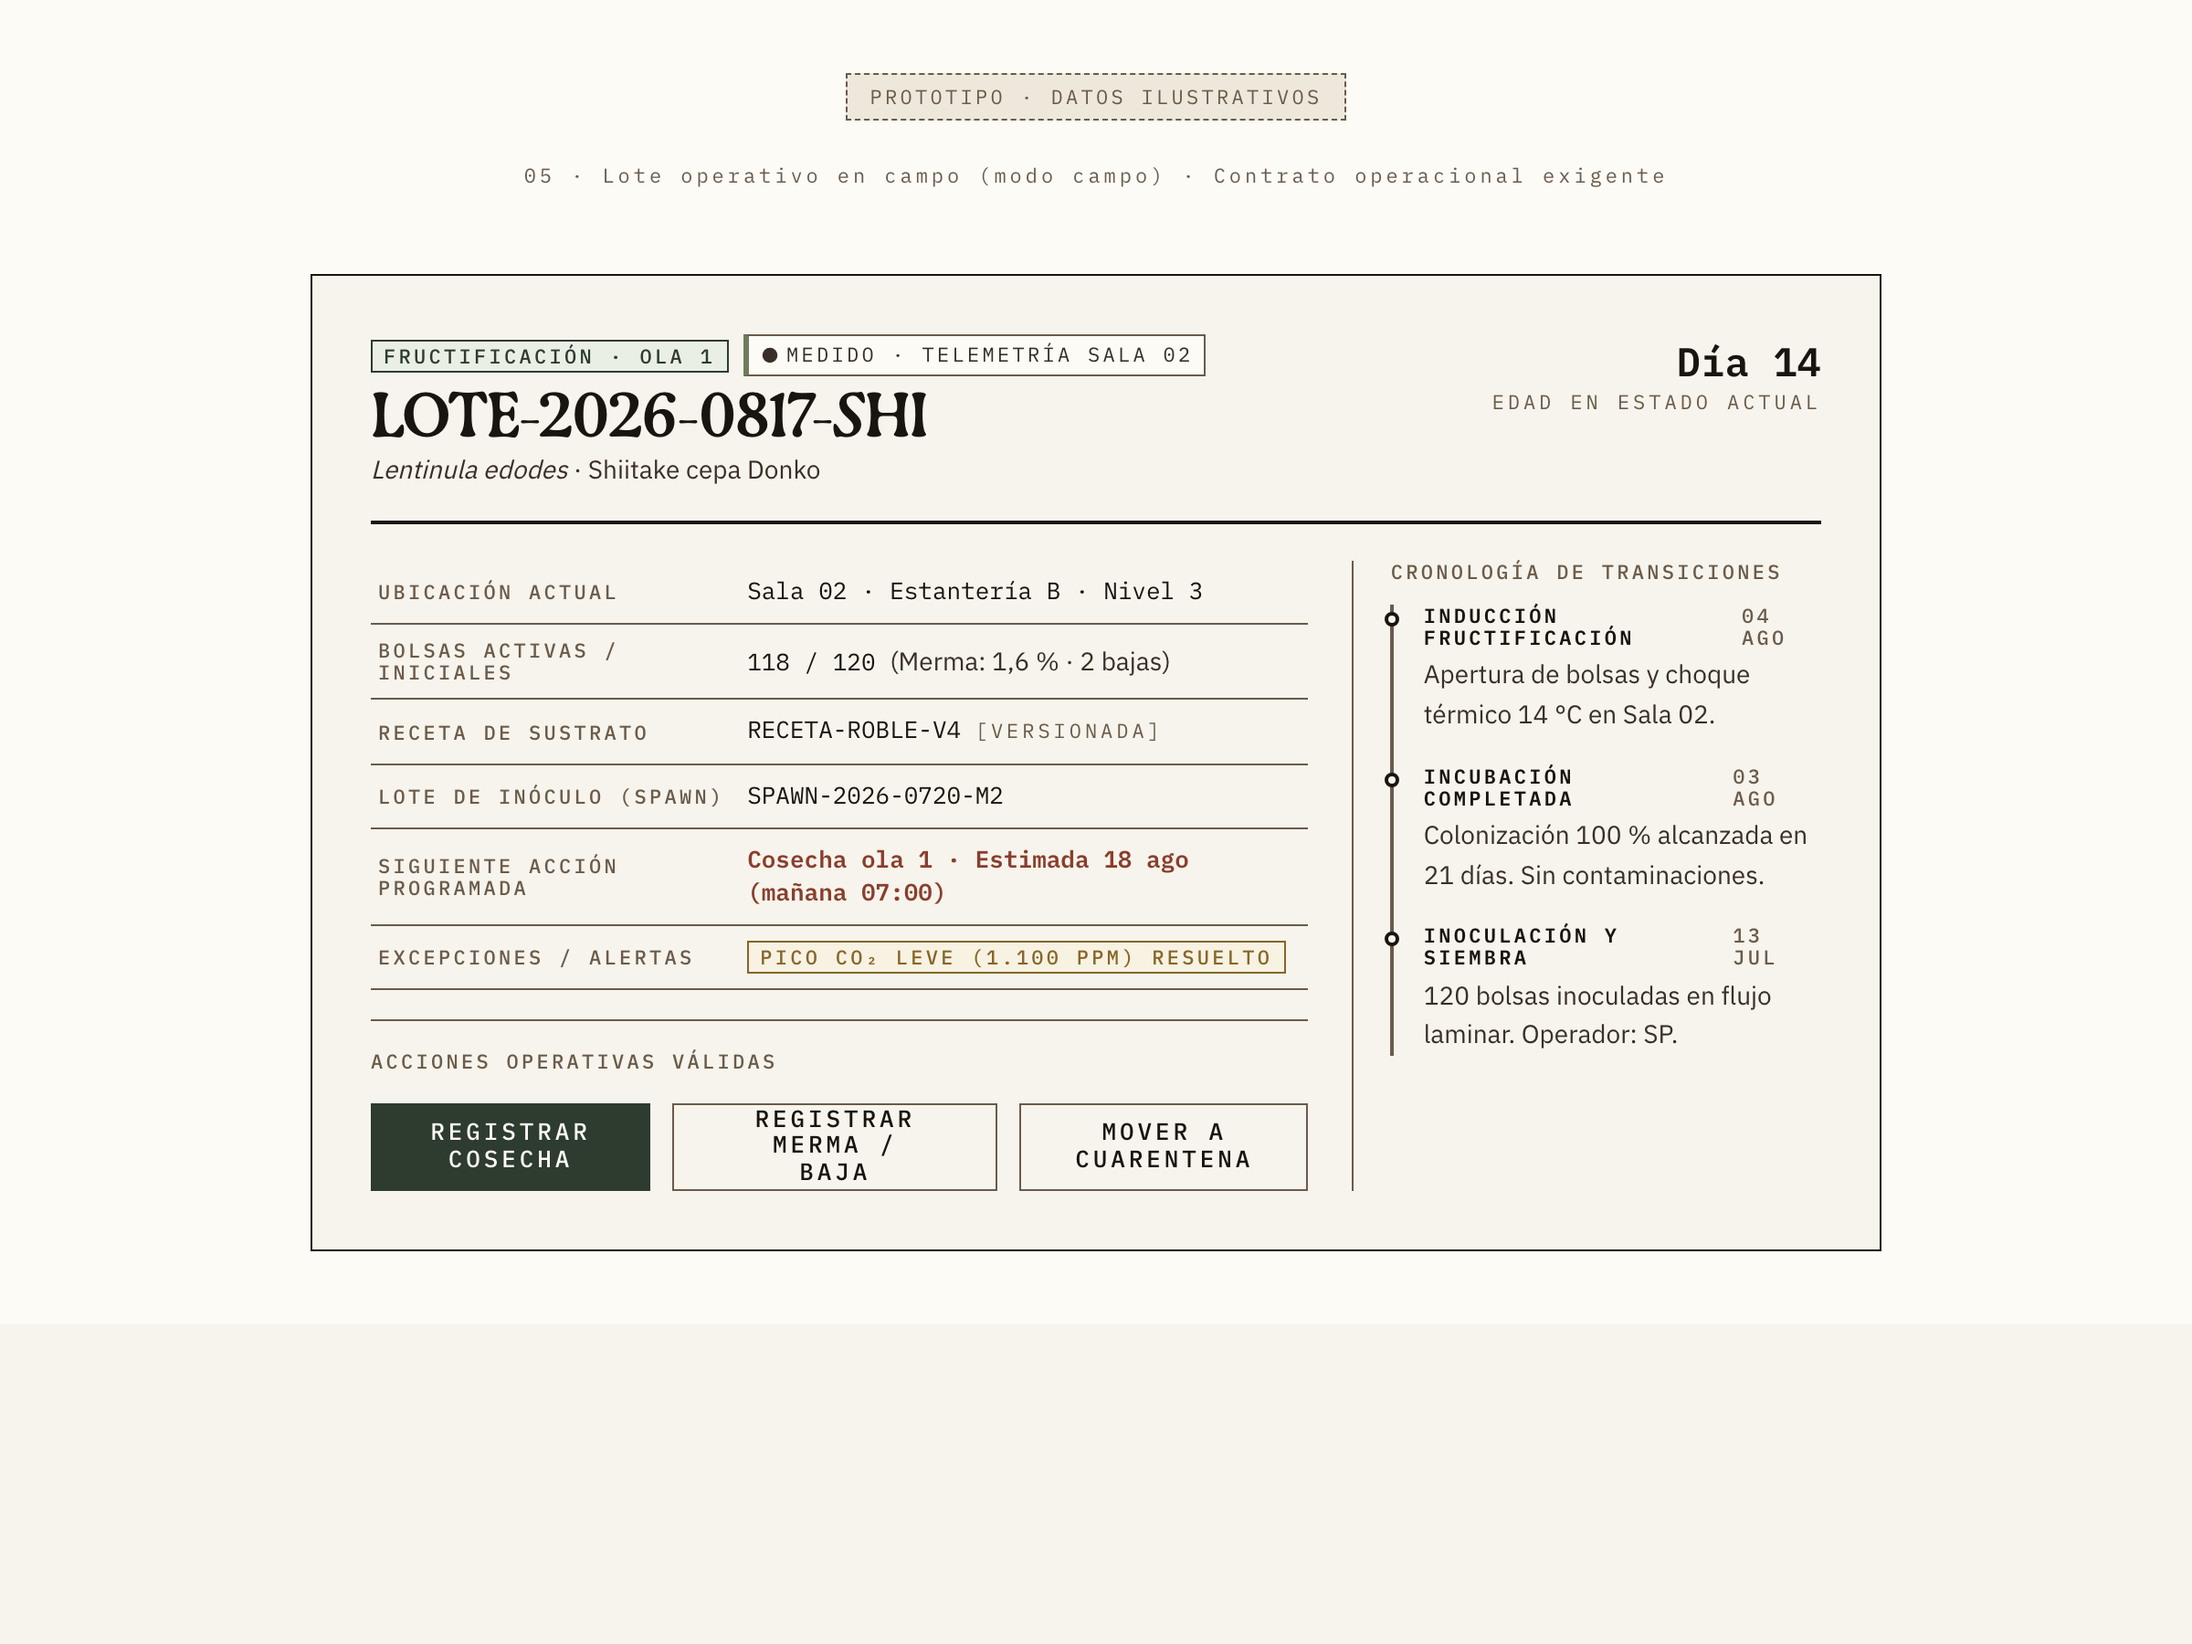
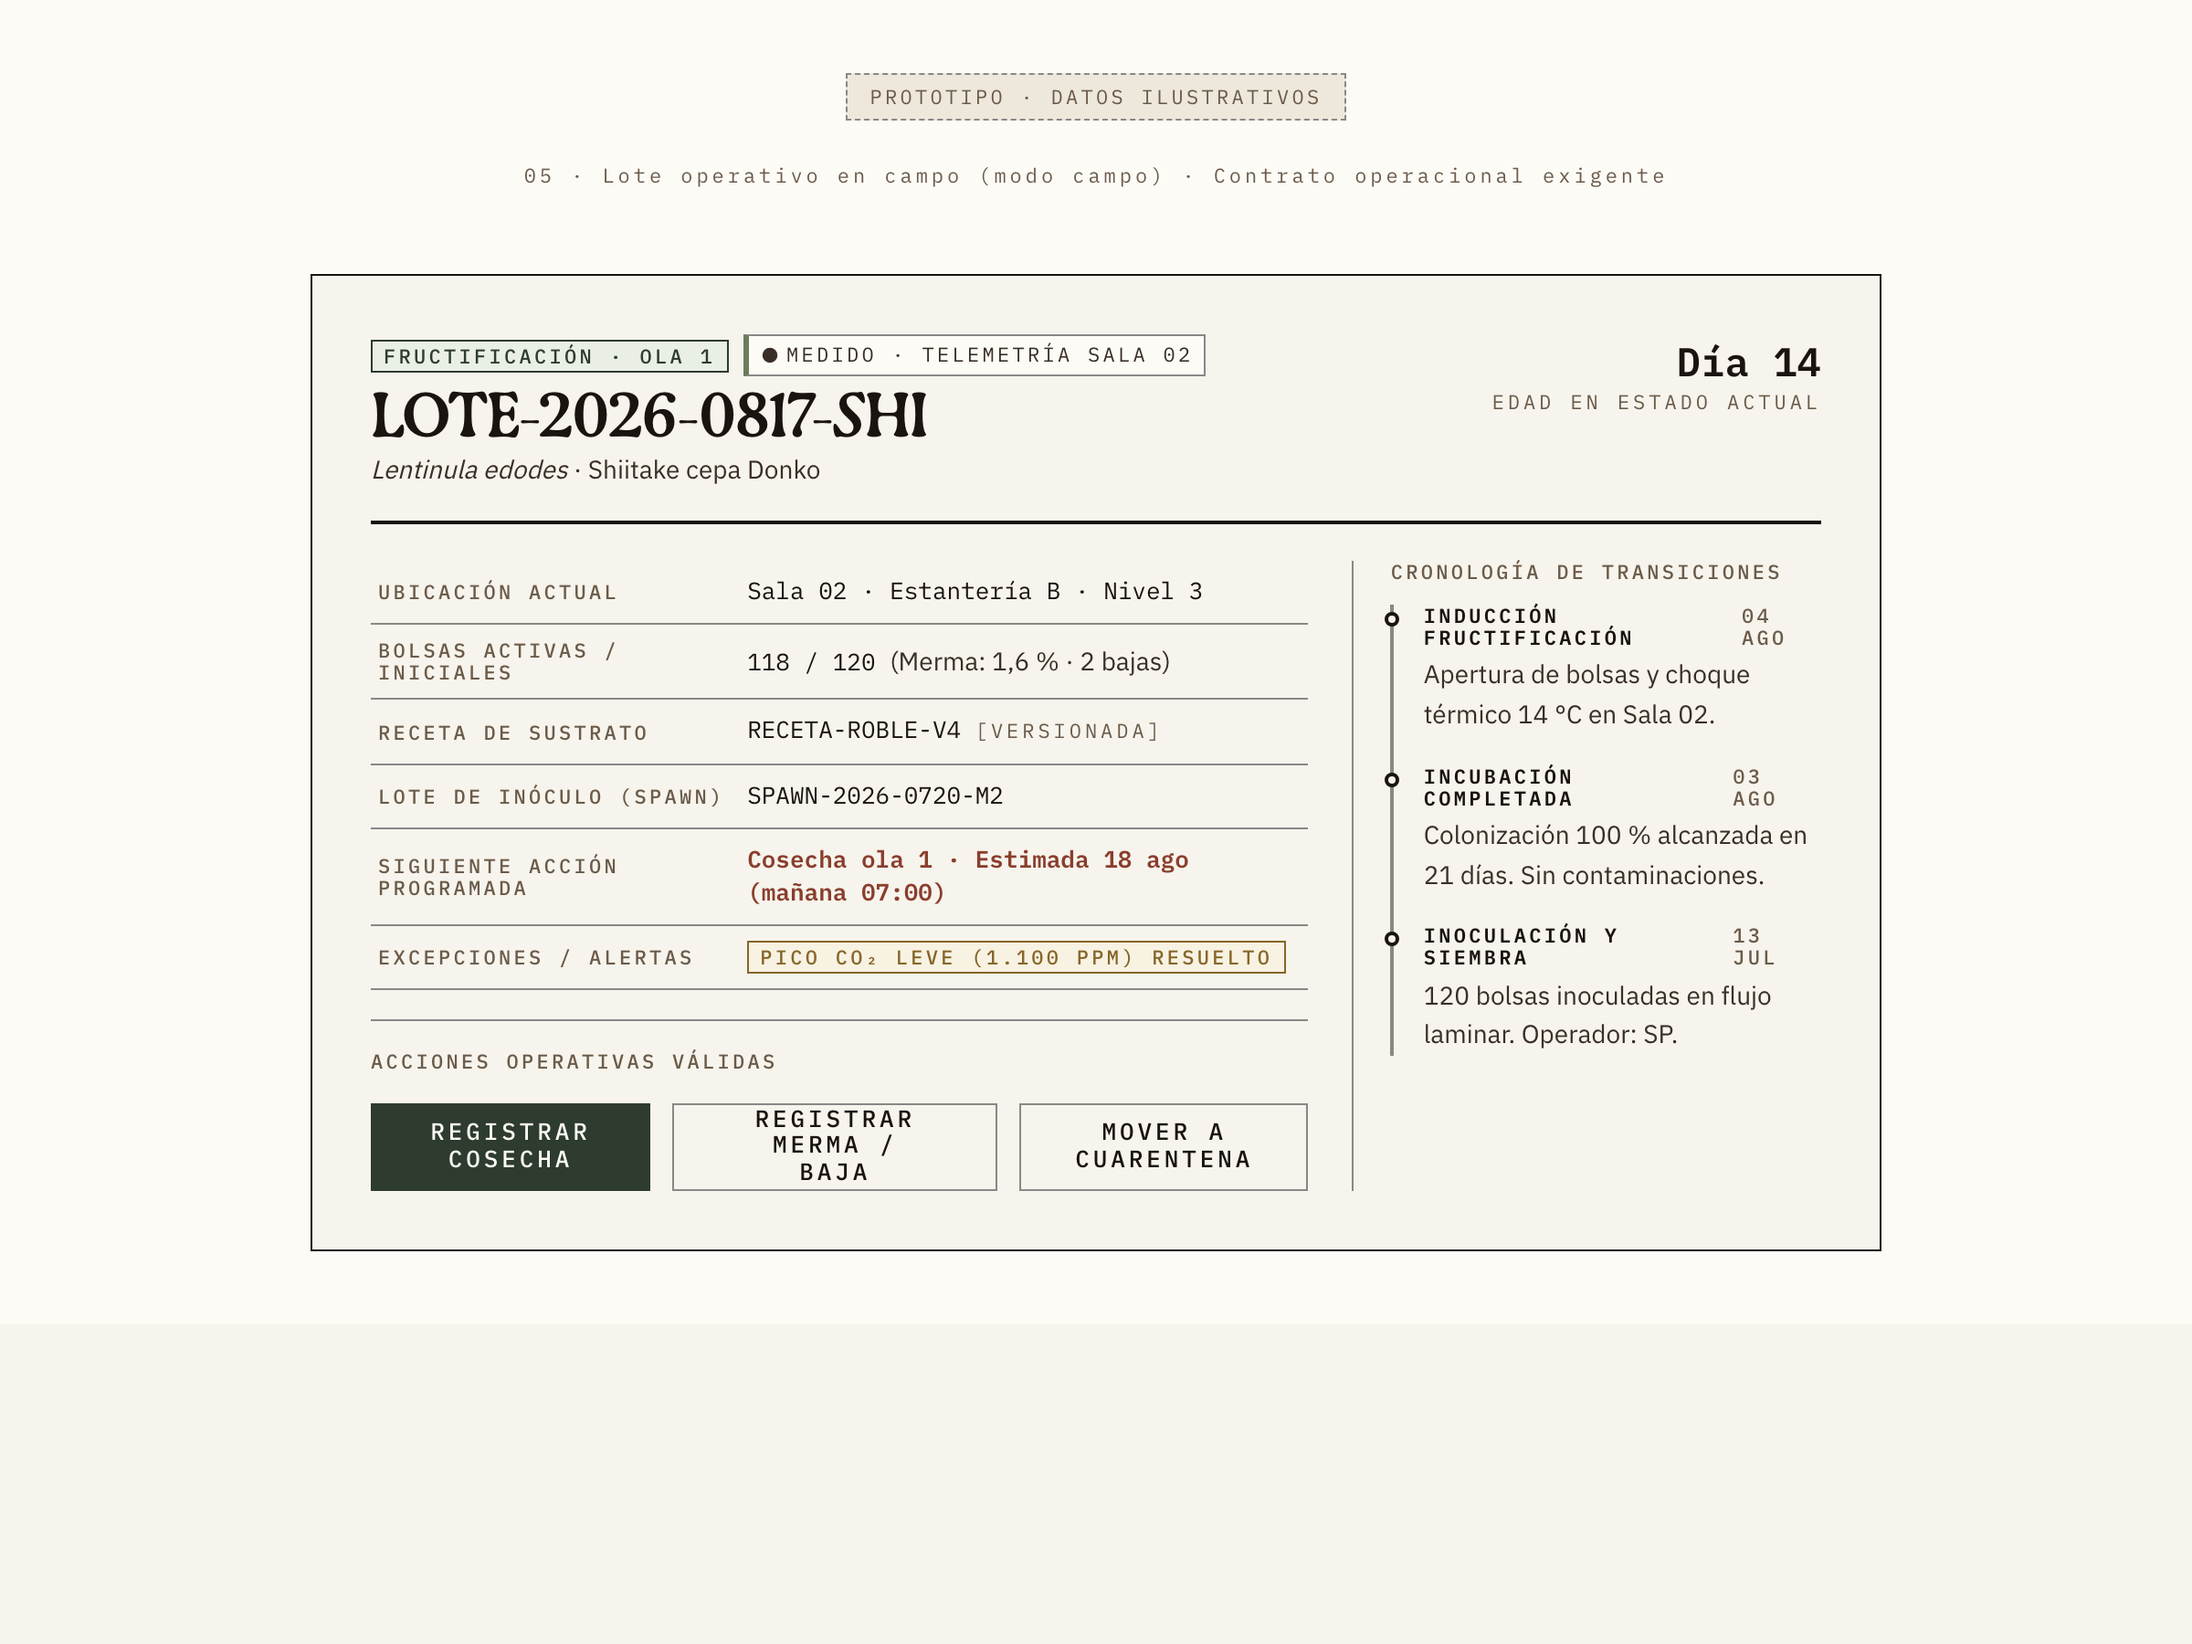
fix(ds-2026): hairline en rule-500 (D3)
--border-hairline pasa de ink 500 (5,92:1) a rule 500 #888 (3,22:1 sobre
papel, 3,42:1 sobre panel; pasa 3:1 gráfico). Ink 500 quedaba casi igual
al texto secundario y encajonaba las tarjetas. Probado en Lote y Ficha.

diff --git a/08_brand/ds-2026/tokens/tokens.css b/08_brand/ds-2026/tokens/tokens.css
@@ -54,7 +54,7 @@
   --text-secondary: var(--ink-700);
   --text-metadata: var(--ink-500);
   --text-inverse: var(--paper-50);
-  --border-hairline: var(--ink-500);
+  --border-hairline: var(--rule-500);
   --border-heavy: var(--ink-900);
   --border-strong: var(--ink-900);
   --brand-primary: var(--moss-700);

diff --git a/field-os-simulador/setas-os/ds-2026/tokens/tokens.css b/field-os-simulador/setas-os/ds-2026/tokens/tokens.css
@@ -54,7 +54,7 @@
   --text-secondary: var(--ink-700);
   --text-metadata: var(--ink-500);
   --text-inverse: var(--paper-50);
-  --border-hairline: var(--ink-500);
+  --border-hairline: var(--rule-500);
   --border-heavy: var(--ink-900);
   --border-strong: var(--ink-900);
   --brand-primary: var(--moss-700);

diff --git a/08_brand/ds-2026/scripts/contrast-audit.py b/08_brand/ds-2026/scripts/contrast-audit.py
@@ -72,7 +72,8 @@ PAIRS = [
     ("WARNING_TEXT", "PAPER", "Caution text / thin caution marker", 4.5, ALLOW),
     ("WARNING_TEXT", "WARNING_TINT", "Caution text on caution tint", 4.5, ALLOW),
     ("INK", "WARNING_TINT", "Body text on caution tint", 4.5, ALLOW),
-    ("RULE", "PAPER", "Legacy specimen rule (non-text)", 3.0, ALLOW),
+    ("RULE", "PAPER", "Hairline border (--border-hairline, non-text)", 3.0, ALLOW),
+    ("RULE", "PAPER_PANEL", "Hairline border on panels (non-text)", 3.0, ALLOW),
     ("MOSS", "PAPER", "OK graphical marker", 3.0, ALLOW),
     ("MOSS_500", "PAPER", "OK bar / marker (--status-ok-marker)", 3.0, ALLOW),
     ("MOSS_500", "MOSS_TINT", "OK bar on OK tint", 3.0, ALLOW),
